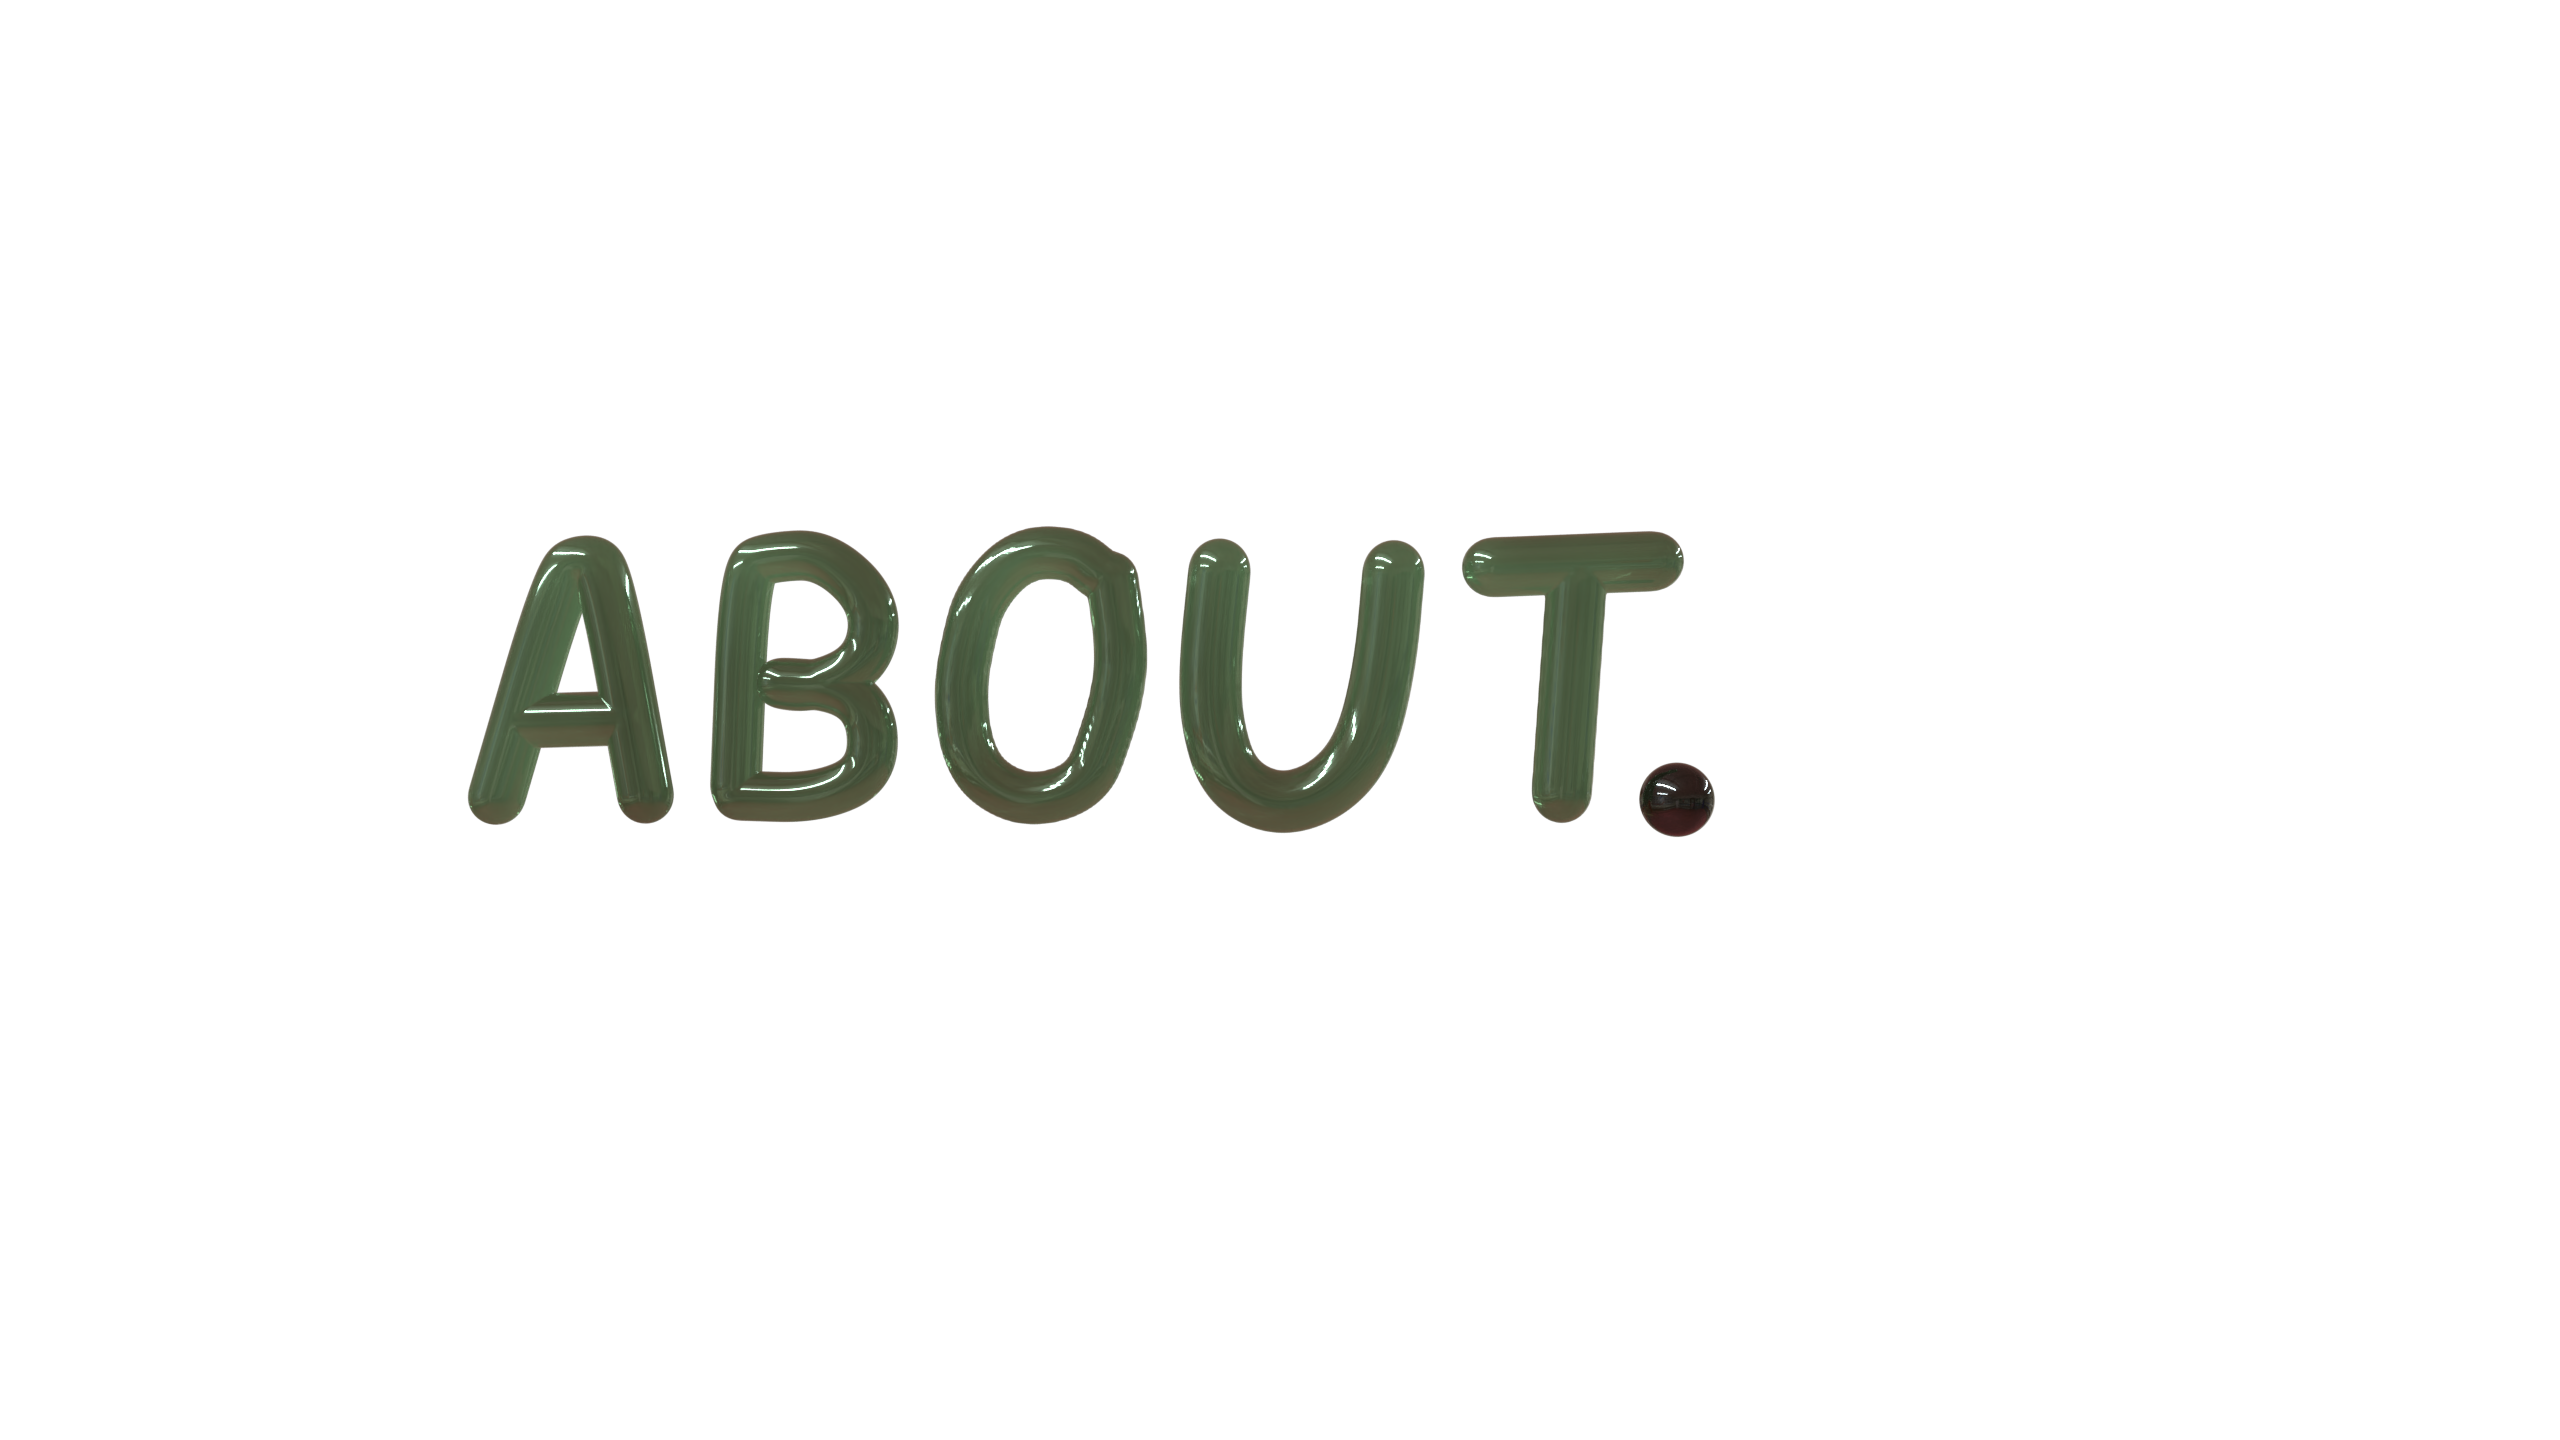
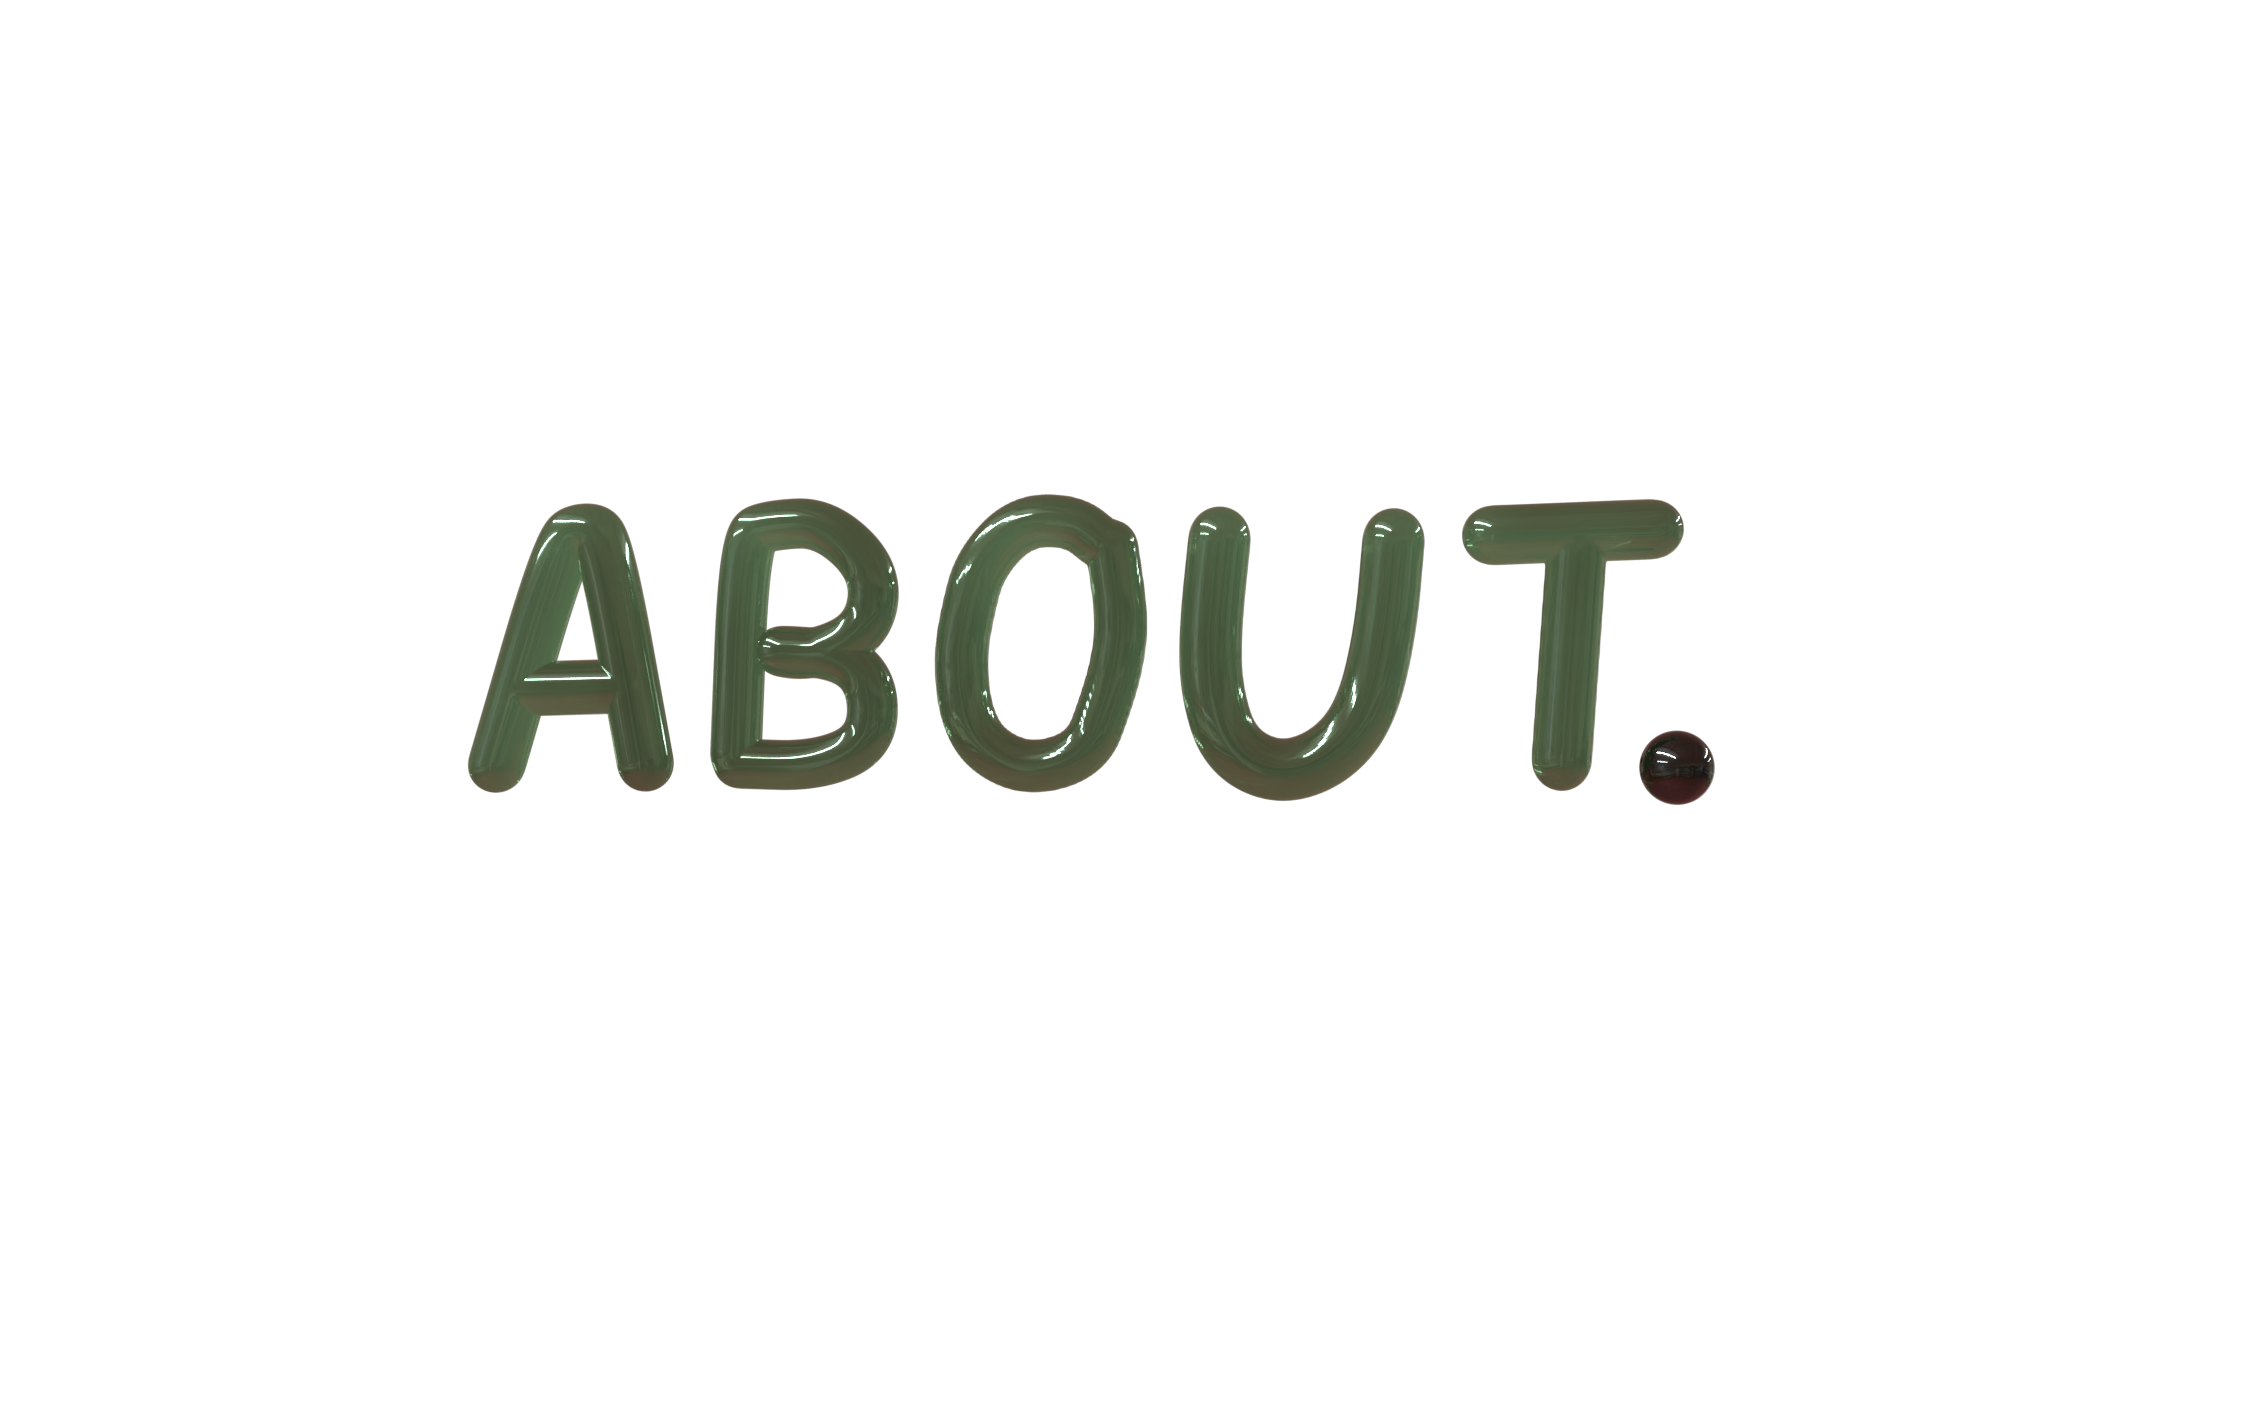
fixing headers

Changed region(s): [[0.1858, 0.3438, 0.7743, 0.5938]]

diff --git a/src/pages/About/About.js b/src/pages/About/About.js
@@ -1,7 +1,7 @@
 import React from "react";
-import Insta from "./InstagramEmbed.js";
 import TicTacToe from "../../components/TicTacToe/TicTacToe";
 import LeafletMap from "../../components/Map/LeafletMap";
+import "./About.css";
 
 function About() {
   const styles = {
@@ -16,27 +16,32 @@ function About() {
   return (
     <div>
       <div className="App-header">
-        <div className="w-full flex flex-col p-8 items-start bg-[#DEE9D3] shadow-inner rounded-3xl">
-          <h1 className="text-4xl mb-10">Our Story</h1>
+        <div>
+          <img src="/headers/about.png" />
           <p className="text-start text-base sm:text-xl mb-8">
-            Founder, Jonathan Li, shares a passion for board games, boba, and delicious food, so he
-            combined them all to become Sip & Play, Park Slope’s first board game cafe. It is a
-            straightforward concept, come in with your friends and family to play any board game
-            from our library of 300+ games! We hope when you visit, you also enjoy our coffee,
-            espresso, boba, sandwiches, and snacks!
+            Founder, Jonathan Li, shares a passion for board games, boba, and
+            delicious food, so he combined them all to become Sip & Play, Park
+            Slope’s first board game cafe. It is a straightforward concept, come
+            in with your friends and family to play any board game from our
+            library of 300+ games! We hope when you visit, you also enjoy our
+            coffee, espresso, boba, sandwiches, and snacks!
           </p>
           <a
             style={styles.link}
             className="text-lg hover:scale-110 "
-            href="https://www.exploretock.com/sipnplay">
+            href="https://www.exploretock.com/sipnplay"
+          >
             Make a Reservation!
           </a>
         </div>
-        <div className="flex flex-col lg:flex-row justify-around items-center p-4 max-w-[380px] lg:max-w-full overflow-hidden lg:w-full h-full">
+        <div className="absolute top-4 left-4 slanted bg-white p-4 z-[-10]">
           <TicTacToe />
-          <div className="flex flex-col mt-10 lg:mt-0">
-            <LeafletMap />
-          </div>
+        </div>
+        <div className="absolute right-4 slanted bg-white p-4 z-[-10]">
+          <TicTacToe />
+        </div>
+        <div className="flex flex-col">
+          <LeafletMap />
         </div>
       </div>
     </div>

diff --git a/src/pages/Menu/Menu.js b/src/pages/Menu/Menu.js
@@ -45,12 +45,14 @@ const Menu = () => {
   return (
     <div className="App-header">
       {/* big letter font */}
-      <h1 className="menu-title">Menu</h1>
+      <img src="headers/menu.png" />
       <Boba />
       {Object.keys(menuItems).length > 0 ? (
         Object.entries(menuItems).map(([section, items]) => (
           <div key={section} className="w-full">
-            <h2 className="text-fuchsia-500 text-3xl mb-2 self-start hidden md:flex">{section}</h2>
+            <h2 className="text-fuchsia-500 text-3xl mb-2 self-start hidden md:flex">
+              {section}
+            </h2>
             <div className=" flex-col items-start relative w-full mb-8 hidden md:flex">
               <div className="shadow-inner md:w-[85%] lg:w-[90%] bg-[#DEE9D3] p-3 pl-10 rounded-l-[50px] pr-[100px] h-[220px]">
                 <div className="grid grid-cols-3 gap-2">
@@ -78,7 +80,9 @@ const Menu = () => {
               </div>
             </div>
             {/* mobile styling here */}
-            <h2 className="text-fuchsia-500 text-xl mb-2 self-start md:hidden">{section}</h2>
+            <h2 className="text-fuchsia-500 text-xl mb-2 self-start md:hidden">
+              {section}
+            </h2>
             <div className="flex flex-col items-start relative w-full h-full mb-8 md:hidden">
               <div className="shadow-inner self-center w-[80%] bg-[#DEE9D3] p-6 rounded-[50px] ">
                 <div className="text-center bg-white w-fit rounded-full overflow-hidden shadow-lg mx-auto">

diff --git a/src/pages/Games/Games.js b/src/pages/Games/Games.js
@@ -27,7 +27,9 @@ const Gallery = () => {
       return searchQuery
         ? title.includes(searchQuery.toLowerCase()) &&
             (selectedTags.length === 0 ||
-              selectedTags.every((tag) => item.label && item.label.includes(tag)))
+              selectedTags.every(
+                (tag) => item.label && item.label.includes(tag)
+              ))
         : selectedTags.length === 0 ||
             selectedTags.every((tag) => item.label && item.label.includes(tag));
     });
@@ -64,7 +66,7 @@ const Gallery = () => {
 
   return (
     <div className="App-header">
-      <h1>Games Catalogue</h1>
+      <img src="headers/gamecatalogue.png" />
       <div className="filter-options flex-row items-baseline w-full justify-around">
         <div className="search-bar">
           <input
@@ -85,8 +87,11 @@ const Gallery = () => {
             <button
               key={label}
               value={label}
-              className={`filter-button p-2 ${selectedTags.includes(label) ? "active" : ""}`}
-              onClick={(e) => handleTagClick(e)}>
+              className={`filter-button p-2 ${
+                selectedTags.includes(label) ? "active" : ""
+              }`}
+              onClick={(e) => handleTagClick(e)}
+            >
               {label}
             </button>
           ))}

diff --git a/src/pages/About/About.css b/src/pages/About/About.css
@@ -1,0 +1,4 @@
+.slanted {
+    transform: rotate(-10deg);
+    pointer-events: auto;
+}
